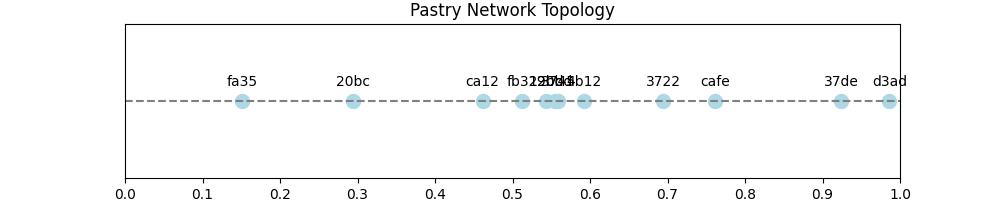
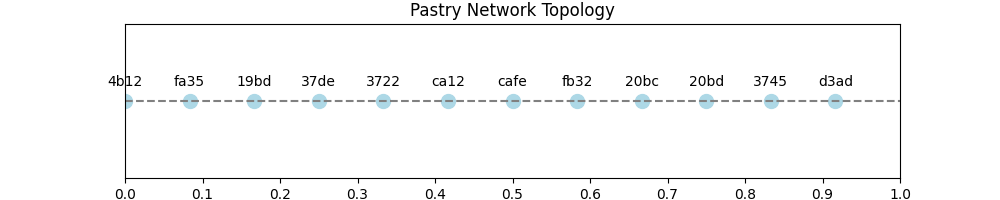
some changes
- to network dinei ta positions omoiomorfa metaksu 0, 1
- elegxos an to generated port uparxei hdh
- to update presence na ginetai me requests

diff --git a/Pastry/node.py b/Pastry/node.py
@@ -26,25 +26,24 @@ class PastryNode:
         """
         Initialize a new Pastry node with a unique ID, Port, Position, and empty data structures.
         """
-        # Set a fixed seed for reproducibility
-        self.node_id = node_id  # if node_id is not None else self._generate_id(self.port)
-        np.random.seed(int(self.node_id, 16))
-
-        self.port = self._generate_port()  # IP = (127.0.0.1, Port)
-        self.position = self._generate_position()  # Random float between 0 and 1
-
         self.network = network  # Reference to the DHT network
+        self.port = self._generate_port()  # IP = (127.0.0.1, Port)
 
-        # Centralized KD-Tree
-        self.kd_tree = None
+        self.node_id = node_id if node_id is not None else self._generate_id(self.port)
+        self.position = None  # Position will be generated by the network
+        self.kd_tree = None  # Centralized KD-Tree object
+
         # 2D Routing Table
         self.routing_table = [[None for j in range(pow(2, b))] for i in range(HASH_HEX_DIGITS)]
         # Leaf Set
+
         self.Lmin = [None for x in range(L // 2)]
         self.Lmax = [None for x in range(L // 2)]
         # Nearby nodes
+
         self.neighborhood_set = [None for x in range(np.floor(np.sqrt(N)).astype(int))]
-        self.lock = threading.Lock()
+
+        self.lock = threading.Lock()  # Lock for thread safety
 
         # Create a thread pool for handling requests to limit the number of concurrent threads
         self.thread_pool = ThreadPoolExecutor(max_workers=10)
@@ -56,14 +55,12 @@ class PastryNode:
         Generate a unique address Port for the node.
         """
         port = port or np.random.randint(1024, 65535)  # Random port if not provided
-        return port
 
-    def _generate_position(self):
-        """
-        Generate a random position for the node.
-        """
-        # Random float between 0 and 1
-        return np.random.uniform(0, 1)
+        # If the port is already in use, generate a new one
+        while port in self.network.used_ports:
+            port = np.random.randint(1024, 65535)
+        self.network.used_ports.append(port)
+        return port
 
     def _generate_id(self, port):
         """
@@ -149,6 +146,8 @@ class PastryNode:
                 response = self._handle_delete_key_request(request)
             elif operation == "LOOKUP":
                 response = self._handle_lookup_request(request)
+            elif operation == "UPDATE_PRESENCE":
+                response = self._handle_update_presence_request(request)
 
             # Add more operations here as needed
 
@@ -461,36 +460,43 @@ class PastryNode:
 
     def transmit_state(self):
         """
-        Broadcast the arrival of this node to the network.
+        Broadcast the arrival of this node to the network, ensuring each node is updated only once.
         """
-        node_id = self.node_id
+        # node_id = self.node_id
+        request = {
+            "operation": "UPDATE_PRESENCE",
+            "joining_node_id": self.node_id,
+            "hops": [],
+        }
+
+        nodes_updated = set()
+
+        def _update_presence(node_id):
+            """Helper function to send request and track updates."""
+            if node_id is not None and node_id not in nodes_updated:
+                self.send_request(self.network.nodes[node_id], request)
+                nodes_updated.add(node_id)
 
         # Update the Neighborhood Set (M) nodes
         for i in range(len(self.neighborhood_set)):
-            if self.neighborhood_set[i] is not None:
-                self.network.nodes[self.neighborhood_set[i]]._update_presence(node_id)
+            _update_presence(self.neighborhood_set[i])
 
         # Update the Routing Table (R) nodes
         for i in range(len(self.routing_table)):
             for j in range(len(self.routing_table[0])):
-                if self.routing_table[i][j] is not None:
-                    self.network.nodes[self.routing_table[i][j]]._update_presence(node_id)
+                _update_presence(self.routing_table[i][j])
 
         # Update the Leaf Set (L) Nodes
 
         # Iterate through the Lmin list
         for i in range(len(self.Lmin)):
             # Check if the current entry in the Lmin list is not None
-            if self.Lmin[i] is not None:
-                # Update the presence of the node in the network
-                self.network.nodes[self.Lmin[i]]._update_presence(node_id)
+            _update_presence(self.Lmin[i])
 
         # Iterate through the Lmax list
         for i in range(len(self.Lmax)):
             # Check if the current entry in the Lmax list is not None
-            if self.Lmax[i] is not None:
-                # Update the presence of the node in the network
-                self.network.nodes[self.Lmax[i]]._update_presence(node_id)
+            _update_presence(self.Lmax[i])
 
     # Data Structure Updates
 
@@ -580,10 +586,12 @@ class PastryNode:
             # Else update Lmin
             self._update_leaf_list(self.Lmin, key)
 
-    def _update_presence(self, key):
+    def _handle_update_presence_request(self, request):
         """
         Update the presence of a node in all the data structures of this node.
         """
+        key = request["joining_node_id"]
+
         # Neighborhood Set (M)
         if key not in self.neighborhood_set:
             self._update_neighborhood_set(key)
@@ -596,9 +604,7 @@ class PastryNode:
         if self.routing_table[idx][int(key[idx], 16)] is None:
             self.routing_table[idx][int(key[idx], 16)] = key
 
-        """Giati to ekana auto!! na to psaksw an xreiazetai"""
-        # If the entry in the routing table of the node corresponding to the key
-        # is empty, update it with the current node's ID
+        # Also update the new node's routing table with the current node's id
         if self.network.nodes[key].routing_table[idx][int(self.node_id[idx], 16)] is None:
             self.network.nodes[key].routing_table[idx][int(self.node_id[idx], 16)] = self.node_id
 

diff --git a/Pastry/network.py b/Pastry/network.py
@@ -2,16 +2,26 @@ import matplotlib.pyplot as plt
 import numpy as np
 
 from helper_functions import *
+from constants import N
+
+positions = positions = np.linspace(0, 1, N, endpoint=False)  # Generates evenly spaced points
 
 
 class PastryNetwork:
     def __init__(self):
         self.nodes = {}  # Dictionary. Keys are node IDs, values are Node objects
+        self.used_ports = []
+        self.used_positions = list(positions)
 
     def node_join(self, new_node):
         """
         Handles a new node joining the Pastry network.
         """
+        if self.used_positions:
+            new_node.position = self.used_positions.pop(0)
+        else:
+            new_node.position = np.random.uniform(0, 1)  # Fallback
+
         # Determine the node ID
         node_id = new_node.node_id
 

diff --git a/Pastry/visualize_test.py b/Pastry/visualize_test.py
@@ -11,7 +11,6 @@ sys.path.append(os.path.abspath(os.path.join(os.path.dirname(__file__), "..")))
 from network import PastryNetwork
 from node import PastryNode
 from constants import *
-from helper_functions import hash_key
 
 
 def main():
@@ -44,6 +43,10 @@ def main():
         network.node_join(node)
         print(f"Node Added: ID = {node.node_id}, Position = {node.position}")
     print("\nAll nodes have successfully joined the network.\n")
+
+    print("\nInspecting the state of each node:")
+    for node in network.nodes.values():
+        node.print_state()
 
     network.visualize_network()
 

diff --git a/Pastry/helper_functions.py b/Pastry/helper_functions.py
@@ -7,7 +7,7 @@ from constants import *
 
 def hash_key(value):
     """
-    Hash the input value and return the least 4 hex digits.
+    Hash the input value and return the last 4 hex digits.
     """
     sha1_hash = hashlib.sha1(value.encode()).hexdigest()
     return sha1_hash[-4:]
